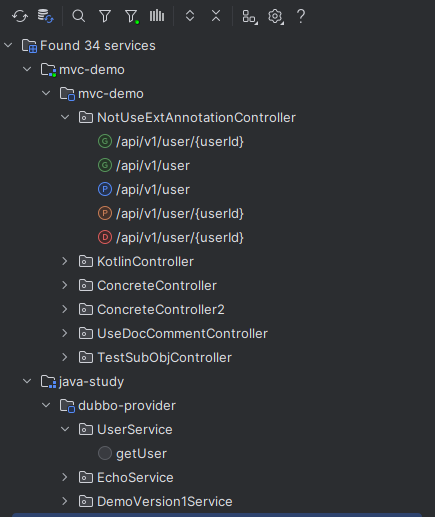
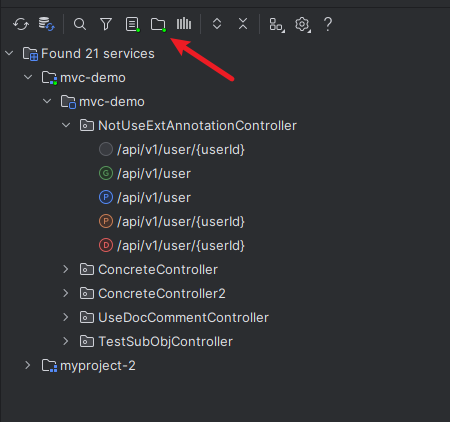
update doc

diff --git a/doc/zh_CN/快速入门/配置.md b/doc/zh_CN/快速入门/配置.md
@@ -4,8 +4,10 @@
 
 - Preferences(Settings) > Other Settings > RestfulBox
 
-## 数据源配置
+## 全局配置
 ![](images/537264421247747.png)
+
+### 数据源配置
 
 配置数据源：可选择已支持的数据源，根据提示填写相应的配置（双击Config可生成默认配置）。
 
@@ -13,37 +15,22 @@
 - Sqlite: sqlite数据库。Config指定为`sqlite文件位置`，文件不存在时会自动创建。
 - MySQL: mysql数据库。Config默认为 `{"url":"jdbc:mysql://127.0.0.1:3306/restkit?useUnicode=true&characterEncoding=utf8&useSSL=false","username":"root","password":"123456"}`, 需自行修改。
 
-管理项目：对项目进行管理，可添加、删除、启用。
-
-## 通用配置
-此部分配置不同步到数据源。
-
-![](images/240564521249042.png)
-
-### 支持的框架
-目前支持类型包括扫**描类型**和**存储类型**。
-- 扫描类型: 支持由源码解析得到，不支持增加/更新/删除等操作
-- 存储类型: 用于自定义API的增删改查，需自行提供存储方式，如文件存储、redis存储等。
-
-对于所有的jetbrains ide，默认提供**Local Store**，通过本地文件方式存储API。路径设置参考下文的其他配置。 对于idea，默认支持**Spring MVC**，包括Java和kotlin的实现。
-
-勾选即启用，若需要支持其他框架的restful接口，请参考：[插件扩展](../扩展/扩展简介.md)
-
 ### UI配置
 
+- 启用展示service树根节点
+- 启用展示多层级service树节点
 - 在search everywhere中展示URL的module名称
-- 使用接口所在文件名作为分组名，默认使用模块名，_可由扩展插件自定义实现_
-- 使用接口描述作为接口名称，默认使用URI
+- 在树节点中展示完整的包名
+- 使用接口描述作为接口名称，默认使用URI，_可由扩展插件自定义实现_
 - 启用参数库：默认启用。设置后需重新打开当前项目
+- 启用接口处的方法跳转
+- 启用多请求标签的客户端
+
 
 ## 项目配置
 ![](images/560074521250044.png)
 
 配置所选项目的请求选项、环境变量和请求头等。
-
-### 指定插件数据目录（可选，建议不设置）
-在电脑的环境变量中配置：**RESTFUL_HOME**，windows需要重启系统生效。
-若不设置，则使用`user.home`
 
 ### 请求配置
 
@@ -51,10 +38,25 @@
 - 请求脚本：设置前置/后置请求脚本路径。当输入框为空时，可双击`Label`自动生成脚本，默认生成路径为：
   - 非订阅用户：`{PROJECT_DIR}/.idea/restkit/xxx-request Script.js`
   - 订阅用户：`{插件数据目录}/.restkit/{projectName}/xxx-request Script.js`
-- http请求超时：设置请求超时时长，设置时长小于等于0时不超时
-- 下载目录;：下载文件目录
+- http请求超时：设置请求超时时长，设置时长小于等于0时为30s
+- 下载目录：下载文件目录
 - curl选项
 
 ## 其他配置
 
-- 参考相应章节
+### 指定插件数据目录（可选，建议不设置）
+在电脑的环境变量中配置：**RESTFUL_HOME**，windows需要重启系统生效。
+若不设置，则使用`user.home`
+
+### 支持的扫描框架
+该配置已在 `3.2.0`版本迁移到 Toolbar。
+
+![](images/1691836592697.png)
+
+目前支持类型包括扫**描类型**和**存储类型**。
+- 扫描类型: 支持由源码解析得到，不支持增加/更新/删除等操作
+- 存储类型: 用于自定义API的增删改查，需自行提供存储方式，如文件存储、redis存储等。默认启用，无需设置，3.x版本开始建议使用数据源代替。
+
+对于所有的jetbrains ide，默认提供**Local Store**，通过本地文件方式存储API（已废弃）。路径设置参考下文的其他配置。 对于idea，默认支持**Spring MVC**，包括Java和kotlin的实现。
+
+勾选即启用，若需要支持其他框架的restful接口，请参考：[插件扩展](../扩展/扩展简介.md)

diff --git a/doc/zh_CN/快速入门/3.0升级指南.md b/doc/zh_CN/快速入门/3.0升级指南.md
@@ -12,7 +12,8 @@
 - 接口图标更新，如开启IDE New UI，将同步开启插件New UI风格图标。
 
 ### 3、多层级service tree
-此为订阅功能。开启后可查看项目、模块、包/类多层级树结构，更加清晰
+- 非订阅用户最多只有1个打开项目支持多层级，订阅用户无限制，可在设置中关闭。
+- 开启后可查看项目、模块、包/类多层级树结构，更加清晰
 
 ### 4、自定义数据源，跨项目跨IDE访问接口
 - 此为订阅功能。
@@ -21,7 +22,7 @@
 - 同时提供了扩展点，可方便地对接三方平台/数据库。
 
 ### 5、多请求Tab支持
-- 此为订阅功能。
+- 非订阅用户每个项目最多支持2个标签，订阅用户无限制，可在设置中关闭。
 - 可同时展示、发起多个请求。
 
 ### 6、开放
@@ -53,4 +54,4 @@ IDE：Help -> Register
 查询已订阅内容，可下载激活码离线激活，官方地址：https://account.jetbrains.com/licenses
 
 ## 五、其他说明
-由于某些同类付费插件大量抄袭了本插件功能，且参差不齐，因此3.0之后的源码不再开放，如有插件开发的问题（不限于技术问题），可以在GitHub提问。
+由于某些同类付费插件大量抄袭了本插件功能，且参差不齐，因此3.0之后的源码选择性开放，如有插件开发的问题（不限于技术问题），可以在GitHub提问。

diff --git a/README.zh_CN.md b/README.zh_CN.md
@@ -56,7 +56,7 @@
 ## 关于插件
 该插件的所有功能源于我本人日常开发中的点点滴滴，且一直以来只有我一人维护，真的是为爱发电了。虽然`3.0`开始新增了付费订阅方式，但仅针对新增的一些高级功能，对于历史版本已有功能以及未来可能会补充的基本功能仍然免费使用。如果有需要，不妨支持一下，点亮小星星，同时也欢迎提供宝贵的建议。:star2:
 
-关于源码：由于国内某些同类付费插件大量抄袭了本插件功能（环境变量、前后置脚本等），且参差不齐，因此3.0之后的源码不再开放，本项目完整源码不作删减，如有插件开发的问题，欢迎交流。
+关于源码：由于国内某些同类付费插件大量抄袭了本插件功能（环境变量、前后置脚本等），且参差不齐，因此3.0之后的源码选择性更新，如有插件开发的问题，欢迎交流。
 
 :fire: **_如果你想更加充分地体验订阅功能，作者免费赠送3个月使用。如有需要，可通过邮件联系作者，备注好需求和你的 [Jetbrains邮箱账号](https://account.jetbrains.com/profile-details) !!_**
 

diff --git a/doc/CHANGELOG.md b/doc/CHANGELOG.md
@@ -5,20 +5,32 @@
 - Optimize & Fix bugs.
 - Change UI configs from project level to global level.
 - Support exporting and importing parameters.
+- Support displaying multi-level service tree and multiple request tabs with limit.
 - New project manager ui.
 
 - 修复bug，优化细节
 - 调整部分配置入口，UI配置升级为全局有效
 - 新增支持导出导入请求参数
+- 非订阅用户支持有限的多层级树节点展示和多请求面板
 - 新增项目数据管理面板
+
+其他说明：
+
+1、扫描框架设置入口迁移到 Toolbar
 
 ![](zh_CN/快速入门/images/1691681334145.png)
 
+2、请求参数导入导出入口：
+
 ![](zh_CN/核心功能/images/1691680441980.png)
+
+3、项目数据管理面板
 
 ![](zh_CN/快速入门/images/1691681334146.png)
 
 ![](zh_CN/快速入门/images/1691681334147.png)
+
+4、全局项目切换入口
 
 ![](zh_CN/快速入门/images/1691681334148.png)
 

diff --git a/doc/zh_CN/快速入门/窗口介绍.md b/doc/zh_CN/快速入门/窗口介绍.md
@@ -13,9 +13,10 @@
 - 刷新：如果没有找到更新的api，点击刷新图标
 - 同步：点击同步接口到数据源，可在设置中指定数据源
 - 搜索：打开search everywhere搜索service url
-- 过滤1：按照http method过滤API
-- 过滤2：按照project名称过滤API
-- 扫描依赖：选中时可搜索依赖包中的restful services
+- 过滤方法：按照http method过滤API
+- 启用扫描框架：按照扫描框架过滤API
+- 启用展示项目：按照project名称过滤API
+- 启用扫描依赖：选中时可搜索依赖包中的restful services
 - 展开/折叠：对接口列表进行展开或折叠
 - 工具：相关常用工具
 - 设置：可打开插件配置和环境变量配置

diff --git a/doc/zh_CN/核心功能/环境变量.md b/doc/zh_CN/核心功能/环境变量.md
@@ -9,8 +9,6 @@
 
 ![3.x新版本](images/100504719258471.png)
 
-![旧版本](images/563431415233361.png)
-
 ## 操作路径
 
 - Preferences(Settings) > Other Settings > RestfulBox > Environment
@@ -28,6 +26,10 @@
 ## 复制
 
 从当前环境变量复制一份新的环境变量。点击 `Copy`，输入唯一的环境变量组名，命名不能重复。
+
+## 重命名
+
+重命名选中的环境变量
 
 ## 删除
 
@@ -69,6 +71,6 @@ public class RestKitScript {
 
 ## 全局请求头
 
-配置当前项目中发送请求时默认附带的请求头。
+配置选定项目中发送请求时默认附带的请求头。
 
 ![](images/285831615232168.png)

diff --git a/doc/zh_CN/核心功能/参数库.md b/doc/zh_CN/核心功能/参数库.md
@@ -45,6 +45,6 @@
 通常不需要操作，仅非订阅用户在当前项目中找到文件 `{PROJECT_DIR}/.idea/restkit/RESTKit_ParameterLibrary.xml`，删除即可。
 
 ## 异常说明
-在Windows idea2022.2上，参数库按钮会出现时有时无的情况，之前的版本正常使用，这个问题应该是idea又改了某些api。
+在 Windows idea2022.2上，参数库按钮会出现时有时无的情况，之前的版本正常使用，这个问题应该是idea又改了某些api。
 
 2.1.1开始添加了快捷键来操作，即使没显示按钮也可以使用快捷键。使用方式见概述。

diff --git a/doc/zh_CN/核心功能/请求脚本.md b/doc/zh_CN/核心功能/请求脚本.md
@@ -130,6 +130,6 @@ if (statusCode != 200) {
 
 ## js脚本使用
 
-Java中执行JavaScript脚本使用了Nashorn引擎及其依赖包，功能强大，使用灵活，可参考以下文档。
+Java中执行JavaScript脚本使用了Nashorn引擎及其依赖包，功能强大，使用灵活，建议好好研究，可参考以下文档。
 
 参考文档：[https://mouse0w0.github.io/2018/12/02/Introduction-to-Nashorn](https://mouse0w0.github.io/2018/12/02/Introduction-to-Nashorn)

diff --git a/doc/zh_CN/核心功能/管理API.md b/doc/zh_CN/核心功能/管理API.md
@@ -11,6 +11,10 @@ API接口可分为多个类型：
 
 ![](images/562551621235762.png)
 
+该配置已在 `3.2.0`版本迁移到 Toolbar。
+
+![](../快速入门/images/1691836592697.png)
+
 ## 展示
 点击toolbar的刷新按钮，将展示多个项目的接口，可点击【过滤2】按钮进行配置。
 
